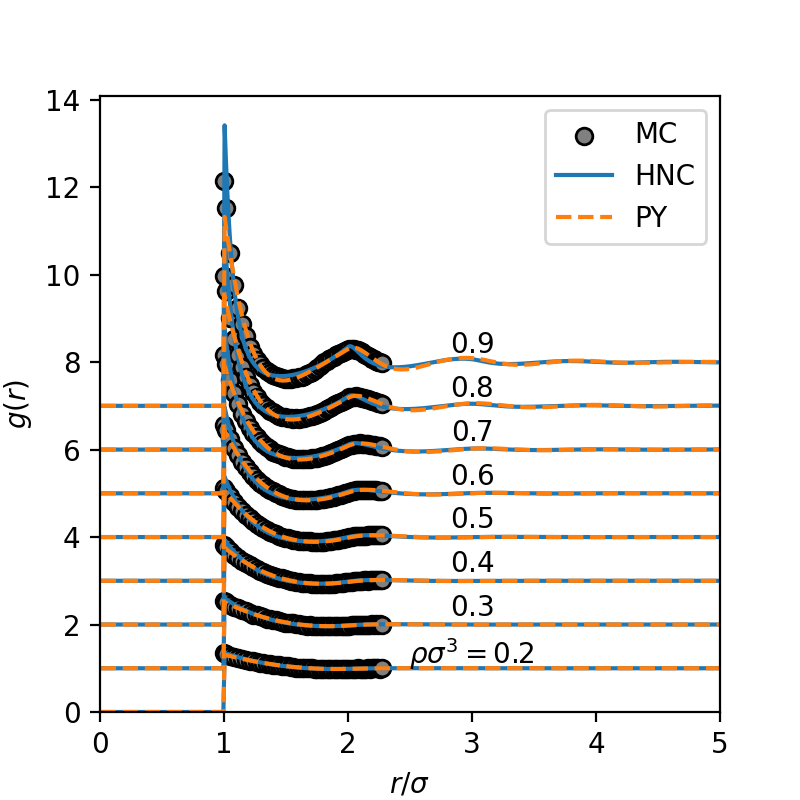
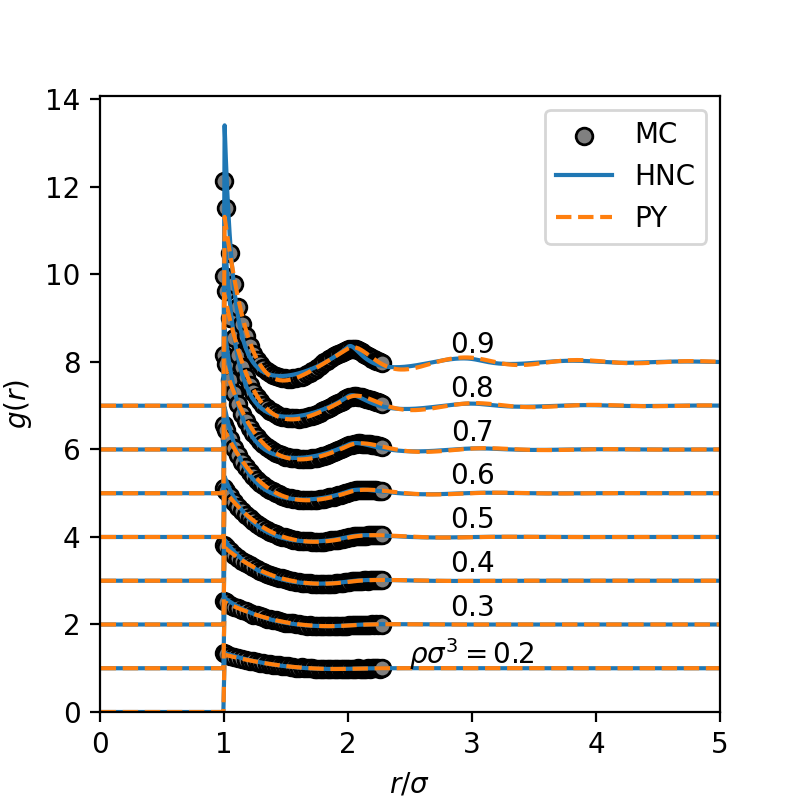
Adding MSA

diff --git a/src/oz.py b/src/oz.py
@@ -4,9 +4,13 @@ from optimizer import AndersonMix, PicardMix
 from typing import Tuple
 import torch
 
+def uhs(r,params):
+    sigma = params
+    return torch.where(r <= sigma, torch.tensor(float('inf')), torch.tensor(0.0))
+
 
 class PyOZ:
-    def __init__(self, u: callable, params: np.ndarray, closure: str = 'PY', device = 'cpu', dtype = torch.float64):
+    def __init__(self, u: callable, params: np.ndarray, closure: str = 'HNC', device = 'cpu', dtype = torch.float64):
         """
         u      : pair potential function u(r, params)
         params : parameters for u
@@ -14,7 +18,7 @@ class PyOZ:
         self.u = u
         self.params = params
         
-        # closure: 'PY' or 'HNC'
+        # closure: 'PY', 'HNC', 'MSA'
         self.closure = closure
         # device for torch tensors
         self.device = device
@@ -22,8 +26,8 @@ class PyOZ:
 
 
     def set_closure(self, closure: str = 'PY'):
-        if closure not in ('PY', 'HNC'):
-            raise ValueError("Closure must be 'PY' or 'HNC'")
+        if closure not in ('PY', 'HNC', 'MSA'):
+            raise ValueError("Closure must be 'PY', 'HNC', or 'MSA'")
         self.closure = closure
 
     def _closure_relation(self, gamma: torch.Tensor, r: torch.Tensor) -> torch.Tensor:
@@ -31,11 +35,18 @@ class PyOZ:
         beta_u = self.u(r, self.params) / self.kBT
         if self.closure == 'PY':
             b_r = torch.log1p(gamma) - gamma
-        else:  # HNC
-            b_r = 0.0
-        return torch.exp(-beta_u + gamma + b_r) - gamma - 1
+            c_r = torch.exp(-beta_u + gamma + b_r) - gamma - 1
+        elif self.closure == 'HNC':
+            c_r = torch.exp(-beta_u + gamma) - gamma - 1
+        elif self.closure == 'MSA':
+            b_r = torch.log1p(gamma) - gamma
+            c_r = torch.exp(-beta_u + gamma + b_r) - gamma - 1
+            c_r[r > self.params[0]] = -beta_u[r > self.params[0]]  # c(r) = -beta*u(r) for r > sigma
+        else:  # not implemented
+            raise NotImplementedError(f"Closure '{self.closure}' is not implemented.")
+        return c_r
 
-    def solve(self, rho: float, kBT: float = 1.0, rmax: float = 5.0, dr: float = 0.01, max_iter: int = 1000, method: str = 'Anderson', mix_depth: int = 5, alpha: float = 0.6, atol: float = 1e-6, logoutput: bool = False) -> Tuple[np.ndarray, np.ndarray]:
+    def solve(self, rho: float, kBT: float = 1.0, rmax: float = 10.0, dr: float = 0.01, max_iter: int = 1000, method: str = 'Anderson', mix_depth: int = 5, alpha: float = 0.6, atol: float = 1e-6, logoutput: bool = False) -> Tuple[np.ndarray, np.ndarray]:
         """
         Solve the Ornstein-Zernike equation for a given radial grid r.
         Returns (r, h_r, c_r).
@@ -71,6 +82,10 @@ class PyOZ:
             gamma_k = self.rho * c_k * c_k  * denominator
             # back to r-space
             gamma_new = hankel_inverse(gamma_k, r, k, dk)  # inverse DST-I normalization
+             # avoid negative values in g(r)
+            c_r[:] = self._closure_relation(gamma_new, r)
+            h_r[:] = gamma_new + c_r[:]
+            gamma_new[:] = torch.clamp(h_r, min=-1.0) - c_r
 
             # testing convergence
             residue = (gamma_new - gamma_r)*r

diff --git a/README.md b/README.md
@@ -14,7 +14,7 @@ $$c(r) = e^{-\beta u(r)+\gamma(r)+b(r)}-\gamma(r)-1$$
 and $b(r)$ is the bridge-function. The following closure relations gives different bridge functions:
 - [x] **P**ercus-**Y**evick (**PY**) - $b(r) = \log(1+\gamma(r))-\gamma(r)$
 - [x] **H**iper**N**etted **C**hain (**HNC**) - $b(r) = 0$
-- [ ] **M**ean-**S**pherical **A**pproximation (**MSA**) - 
+- [x] **M**ean-**S**pherical **A**pproximation (**MSA**) - $c(r) = -\beta u(r), r> \sigma$
 
 # Examples
 
@@ -35,6 +35,10 @@ Notebook: [LennardJones.ipynb](https://github.com/elvissoares/PyOZ/blob/main/exa
 |![Figure3](https://github.com/elvissoares/PyOZ/blob/main/examples/radialdistributionfunction-argon-lennardjones.png)|
 | <b>Fig.3 - The radial distribution function of Argon fluid at triple point density and temperature. The symbols represent MD data from Verlet 1968. </b>|
 |:--:|
+
+## Yukawa fluids
+
+Notebook: [Yukawa.ipynb](https://github.com/elvissoares/PyOZ/blob/main/examples/Yukawa.ipynb)
 
 # References
 [^1]: Hansen, Jean-Pierre, and Ian Ranald McDonald. *Theory of simple liquids: with applications to soft matter.* Academic press, 2013.